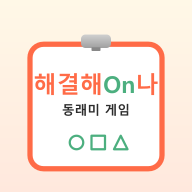
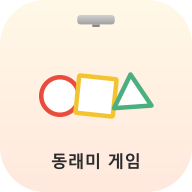
feat: PWA 아이콘 + OG 이미지 재디자인 - ○□△ 도형 중심

diff --git a/scripts/generate-assets.js b/scripts/generate-assets.js
@@ -9,23 +9,35 @@ const PUBLIC_DIR = join(__dirname, '..', 'public')
 const FONT_STACK =
   "'Pretendard', 'Apple SD Gothic Neo', 'Malgun Gothic', 'Noto Sans CJK KR', sans-serif"
 
-// 색상 토큰 (tokens.css 와 동일)
 const COLOR = {
   cream: '#FFF8E7',
   peach: '#FFE8DD',
   peachDeep: '#FFD8C2',
   orange: '#FF6B47',
-  orangeSub: '#FF8B66',
   mint: '#4CAF7F',
-  yellowAccent: '#FFD93D',
   textDark: '#2C2C2C',
+  shapeRed: '#E94B3C',
+  shapeYellow: '#F4C430',
+  shapeGreen: '#4CAF7F',
 }
 
 // =========================================================================
-// 앱 아이콘 (정사각, 512 기준)
+// 앱 아이콘 (1024x1024 기준, ○□△ 중심)
 // =========================================================================
 function iconSVG() {
-  return `<svg xmlns="http://www.w3.org/2000/svg" viewBox="0 0 512 512" width="512" height="512">
+  // 도형 외곽선 두께
+  const sw = 24
+  // 정삼각형 한 변 200 기준 높이
+  const triHalf = 100
+  const triH = Math.round((200 * Math.sqrt(3)) / 2) // ≈ 173
+  // △ 중심 cx=704, cy=512
+  const triCx = 704
+  const triCy = 512
+  const triTop = `${triCx},${triCy - Math.round((2 * triH) / 3)}`
+  const triLeft = `${triCx - triHalf},${triCy + Math.round(triH / 3)}`
+  const triRight = `${triCx + triHalf},${triCy + Math.round(triH / 3)}`
+
+  return `<svg xmlns="http://www.w3.org/2000/svg" viewBox="0 0 1024 1024" width="1024" height="1024">
   <defs>
     <linearGradient id="bg" x1="0" y1="0" x2="0" y2="1">
       <stop offset="0%" stop-color="${COLOR.cream}"/>
@@ -37,44 +49,42 @@ function iconSVG() {
     </linearGradient>
   </defs>
 
-  <!-- 배경 (전체) -->
-  <rect width="512" height="512" fill="url(#bg)"/>
+  <!-- 배경 (둥근 사각형) -->
+  <rect width="1024" height="1024" rx="240" ry="240" fill="url(#bg)"/>
 
-  <!-- 클립보드 (안전 영역 내부) -->
-  <rect x="80" y="118" width="352" height="332" rx="36" ry="36"
-        fill="white" stroke="${COLOR.orange}" stroke-width="14"/>
+  <!-- 상단 클립 데코 (가로 200 x 세로 50, 상단에서 80) -->
+  <rect x="412" y="80" width="200" height="50" rx="16" ry="16" fill="url(#clipMetal)"/>
+  <rect x="492" y="130" width="40" height="14" rx="3" fill="#888888"/>
 
-  <!-- 클립 -->
-  <rect x="216" y="92" width="80" height="36" rx="12" ry="12" fill="url(#clipMetal)"/>
-  <rect x="244" y="126" width="24" height="10" rx="2" fill="#888888"/>
+  <!-- 중앙 ○ □ △ -->
+  <!-- ○ 빨강 -->
+  <circle cx="320" cy="512" r="100"
+          fill="white" stroke="${COLOR.shapeRed}" stroke-width="${sw}"
+          transform="rotate(-8 320 512)"/>
 
-  <!-- 타이틀: 해결해On나 -->
-  <text x="256" y="248"
+  <!-- □ 노랑 -->
+  <rect x="412" y="412" width="200" height="200" rx="6" ry="6"
+        fill="white" stroke="${COLOR.shapeYellow}" stroke-width="${sw}"
+        stroke-linejoin="round"
+        transform="rotate(6 512 512)"/>
+
+  <!-- △ 초록 -->
+  <polygon points="${triTop} ${triLeft} ${triRight}"
+           fill="white" stroke="${COLOR.shapeGreen}" stroke-width="${sw}"
+           stroke-linejoin="round"
+           transform="rotate(-4 704 512)"/>
+
+  <!-- 하단 텍스트: 동래미 게임 -->
+  <text x="512" y="${1024 - 130}"
         font-family="${FONT_STACK}"
-        font-weight="900" font-size="62"
-        text-anchor="middle">
-    <tspan fill="${COLOR.orange}">해결해</tspan><tspan fill="${COLOR.mint}">On</tspan><tspan fill="${COLOR.orange}">나</tspan>
-  </text>
-
-  <!-- 서브: 동래미 게임 -->
-  <text x="256" y="306"
-        font-family="${FONT_STACK}"
-        font-weight="800" font-size="34"
+        font-weight="900" font-size="90"
         text-anchor="middle" fill="${COLOR.textDark}">동래미 게임</text>
-
-  <!-- 하단 도형 ○ □ △ -->
-  <g transform="translate(184, 358)" fill="none" stroke="${COLOR.mint}" stroke-width="6" stroke-linejoin="round">
-    <circle cx="20" cy="22" r="18"/>
-    <rect x="60" y="4" width="36" height="36"/>
-    <polygon points="138,4 156,40 120,40"/>
-  </g>
 </svg>`
 }
 
 async function makeIcon(size) {
-  const svg = iconSVG()
   const out = join(PUBLIC_DIR, `icon-${size}.png`)
-  await sharp(Buffer.from(svg))
+  await sharp(Buffer.from(iconSVG()))
     .resize(size, size)
     .png()
     .toFile(out)
@@ -82,9 +92,20 @@ async function makeIcon(size) {
 }
 
 // =========================================================================
-// OG 이미지 (1200x630)
+// OG 이미지 (1200x630 가로형, ○□△ 우측 배치)
 // =========================================================================
 function ogSVG() {
+  const sw = 14
+  // 우측 도형 영역: 가운데 cy ≈ 315
+  // △ 한 변 220
+  const triHalf = 110
+  const triH = Math.round((220 * Math.sqrt(3)) / 2)
+  const triCx = 1060
+  const triCy = 320
+  const triTop = `${triCx},${triCy - Math.round((2 * triH) / 3)}`
+  const triLeft = `${triCx - triHalf},${triCy + Math.round(triH / 3)}`
+  const triRight = `${triCx + triHalf},${triCy + Math.round(triH / 3)}`
+
   return `<svg xmlns="http://www.w3.org/2000/svg" viewBox="0 0 1200 630" width="1200" height="630">
   <defs>
     <linearGradient id="bg" x1="0" y1="0" x2="1" y2="1">
@@ -92,14 +113,10 @@ function ogSVG() {
       <stop offset="60%" stop-color="${COLOR.peach}"/>
       <stop offset="100%" stop-color="${COLOR.peachDeep}"/>
     </linearGradient>
-    <linearGradient id="clipMetal" x1="0" y1="0" x2="0" y2="1">
-      <stop offset="0%" stop-color="#d0d0d0"/>
-      <stop offset="100%" stop-color="#a0a0a0"/>
-    </linearGradient>
-    <pattern id="grid" x="0" y="0" width="20" height="20" patternUnits="userSpaceOnUse">
-      <path d="M 20 0 L 0 0 0 20" fill="none" stroke="${COLOR.orange}" stroke-width="1" opacity="0.18"/>
+    <pattern id="grid" x="0" y="0" width="24" height="24" patternUnits="userSpaceOnUse">
+      <path d="M 24 0 L 0 0 0 24" fill="none" stroke="${COLOR.orange}" stroke-width="1" opacity="0.16"/>
     </pattern>
-    <radialGradient id="gridMask" cx="100%" cy="0%" r="60%">
+    <radialGradient id="gridMask" cx="100%" cy="0%" r="65%">
       <stop offset="0%" stop-color="black" stop-opacity="0.55"/>
       <stop offset="100%" stop-color="black" stop-opacity="0"/>
     </radialGradient>
@@ -110,85 +127,53 @@ function ogSVG() {
 
   <!-- 배경 -->
   <rect width="1200" height="630" fill="url(#bg)"/>
-
-  <!-- 우상단 격자 데코 -->
   <rect width="1200" height="630" fill="url(#grid)" mask="url(#gridFade)"/>
 
   <!-- 좌측 텍스트 영역 -->
-  <g>
-    <!-- 작은 배지: 동래구청소년센터 -->
-    <rect x="80" y="80" width="280" height="44" rx="22" fill="#C8F0D5"/>
-    <text x="220" y="110"
-          font-family="${FONT_STACK}"
-          font-weight="800" font-size="20"
-          text-anchor="middle" fill="${COLOR.textDark}">📍 동래구청소년센터</text>
-
-    <!-- 메인 타이틀 해결해On나 -->
-    <text x="80" y="270"
-          font-family="${FONT_STACK}"
-          font-weight="900" font-size="120"
-          text-anchor="start">
-      <tspan fill="${COLOR.orange}">해결해</tspan><tspan fill="${COLOR.mint}">On</tspan><tspan fill="${COLOR.orange}">나</tspan>
-    </text>
-
-    <!-- 시즌 타이틀 동래미(○□△) 게임 -->
-    <text x="80" y="345"
-          font-family="${FONT_STACK}"
-          font-weight="800" font-size="44"
-          text-anchor="start">
-      <tspan fill="#E94B3C">동</tspan><tspan fill="#F4C430">래</tspan><tspan fill="${COLOR.mint}">미</tspan><tspan fill="${COLOR.textDark}" opacity="0.7">(</tspan>
-    </text>
-    <!-- 도형 그룹 (텍스트 옆에 인라인 배치) -->
-    <g transform="translate(316, 313)" fill="none" stroke="${COLOR.mint}" stroke-width="3.5" stroke-linejoin="round">
-      <circle cx="14" cy="20" r="12"/>
-      <rect x="36" y="8" width="24" height="24"/>
-      <polygon points="84,8 96,32 72,32"/>
-    </g>
-    <text x="426" y="345"
-          font-family="${FONT_STACK}"
-          font-weight="800" font-size="44"
-          text-anchor="start">
-      <tspan fill="${COLOR.textDark}" opacity="0.7">)</tspan> <tspan fill="${COLOR.textDark}">게임</tspan>
-    </text>
-
-    <!-- 슬로건 -->
-    <text x="80" y="410"
-          font-family="${FONT_STACK}"
-          font-weight="600" font-size="28"
-          fill="${COLOR.textDark}" opacity="0.7">실내 오리엔티어링 미션</text>
-
-    <!-- 날짜 -->
-    <text x="80" y="455"
-          font-family="${FONT_STACK}"
-          font-weight="600" font-size="22"
-          fill="${COLOR.textDark}" opacity="0.55">2026.6.20 (토) · 동래구청소년센터</text>
-  </g>
-
-  <!-- 우측 클립보드 일러스트 -->
-  <g transform="translate(820, 130)">
-    <rect x="0" y="40" width="300" height="380" rx="28" ry="28"
-          fill="white" stroke="${COLOR.orange}" stroke-width="10"/>
-    <rect x="118" y="20" width="64" height="32" rx="10" fill="url(#clipMetal)"/>
-    <rect x="142" y="50" width="16" height="8" rx="2" fill="#888"/>
-
-    <!-- 큰 타겟 -->
-    <circle cx="150" cy="220" r="78" fill="white" stroke="${COLOR.orange}" stroke-width="9"/>
-    <circle cx="150" cy="220" r="55" fill="white" stroke="${COLOR.orange}" stroke-width="7"/>
-    <circle cx="150" cy="220" r="30" fill="${COLOR.orange}"/>
-
-    <!-- 작은 도형 행 -->
-    <g transform="translate(76, 340)" fill="none" stroke="${COLOR.mint}" stroke-width="4.5" stroke-linejoin="round">
-      <circle cx="16" cy="16" r="14"/>
-      <rect x="52" y="2" width="28" height="28"/>
-      <polygon points="116,2 132,30 100,30"/>
-    </g>
-  </g>
-
-  <!-- 우하단 도메인 -->
-  <text x="1130" y="600"
+  <text x="80" y="190"
         font-family="${FONT_STACK}"
-        font-weight="600" font-size="20"
-        text-anchor="end" fill="${COLOR.textDark}" opacity="0.5">tanggo.vercel.app</text>
+        font-weight="900" font-size="120"
+        text-anchor="start">
+    <tspan fill="${COLOR.orange}">해결해</tspan><tspan fill="${COLOR.mint}">On</tspan><tspan fill="${COLOR.orange}">나</tspan>
+  </text>
+
+  <text x="80" y="280"
+        font-family="${FONT_STACK}"
+        font-weight="800" font-size="56"
+        text-anchor="start" fill="${COLOR.textDark}">동래미 게임</text>
+
+  <text x="80" y="340"
+        font-family="${FONT_STACK}"
+        font-weight="600" font-size="30"
+        text-anchor="start" fill="${COLOR.textDark}" opacity="0.65">실내 오리엔티어링 미션</text>
+
+  <text x="80" y="400"
+        font-family="${FONT_STACK}"
+        font-weight="600" font-size="24"
+        text-anchor="start" fill="${COLOR.textDark}" opacity="0.5">2026.6.20 (토) · 동래구청소년센터</text>
+
+  <text x="80" y="592"
+        font-family="${FONT_STACK}"
+        font-weight="700" font-size="22"
+        text-anchor="start" fill="${COLOR.textDark}" opacity="0.45">tanggo.vercel.app</text>
+
+  <!-- 우측 ○ □ △ 큰 도형 -->
+  <!-- ○ 빨강 -->
+  <circle cx="720" cy="320" r="110"
+          fill="white" stroke="${COLOR.shapeRed}" stroke-width="${sw}"
+          transform="rotate(-10 720 320)"/>
+
+  <!-- □ 노랑 -->
+  <rect x="780" y="210" width="220" height="220" rx="8" ry="8"
+        fill="white" stroke="${COLOR.shapeYellow}" stroke-width="${sw}"
+        stroke-linejoin="round"
+        transform="rotate(8 890 320)"/>
+
+  <!-- △ 초록 -->
+  <polygon points="${triTop} ${triLeft} ${triRight}"
+           fill="white" stroke="${COLOR.shapeGreen}" stroke-width="${sw}"
+           stroke-linejoin="round"
+           transform="rotate(-5 1060 320)"/>
 </svg>`
 }
 
@@ -202,15 +187,21 @@ async function makeOG() {
 }
 
 // =========================================================================
-// 파비콘 (16, 32) — 단순화 버전
+// 파비콘 — ○□△ 가로 배치 (작은 사이즈 식별 위해 도형만)
 // =========================================================================
 function faviconSVG() {
   return `<svg xmlns="http://www.w3.org/2000/svg" viewBox="0 0 64 64" width="64" height="64">
-  <rect width="64" height="64" rx="14" fill="${COLOR.orange}"/>
-  <text x="32" y="46"
-        font-family="${FONT_STACK}"
-        font-weight="900" font-size="42"
-        text-anchor="middle" fill="white">해</text>
+  <rect width="64" height="64" rx="12" fill="${COLOR.cream}"/>
+  <!-- ○ -->
+  <circle cx="14" cy="32" r="9" fill="white" stroke="${COLOR.shapeRed}" stroke-width="4"/>
+  <!-- □ -->
+  <rect x="23" y="23" width="18" height="18" rx="1.5" ry="1.5"
+        fill="white" stroke="${COLOR.shapeYellow}" stroke-width="4"
+        stroke-linejoin="round"/>
+  <!-- △ -->
+  <polygon points="50,23 59,41 41,41"
+           fill="white" stroke="${COLOR.shapeGreen}" stroke-width="4"
+           stroke-linejoin="round"/>
 </svg>`
 }
 
@@ -223,8 +214,6 @@ async function makeFavicon(size) {
   console.log(`✓ ${out}`)
 }
 
-// =========================================================================
-// 실행
 // =========================================================================
 async function main() {
   await mkdir(PUBLIC_DIR, { recursive: true })
